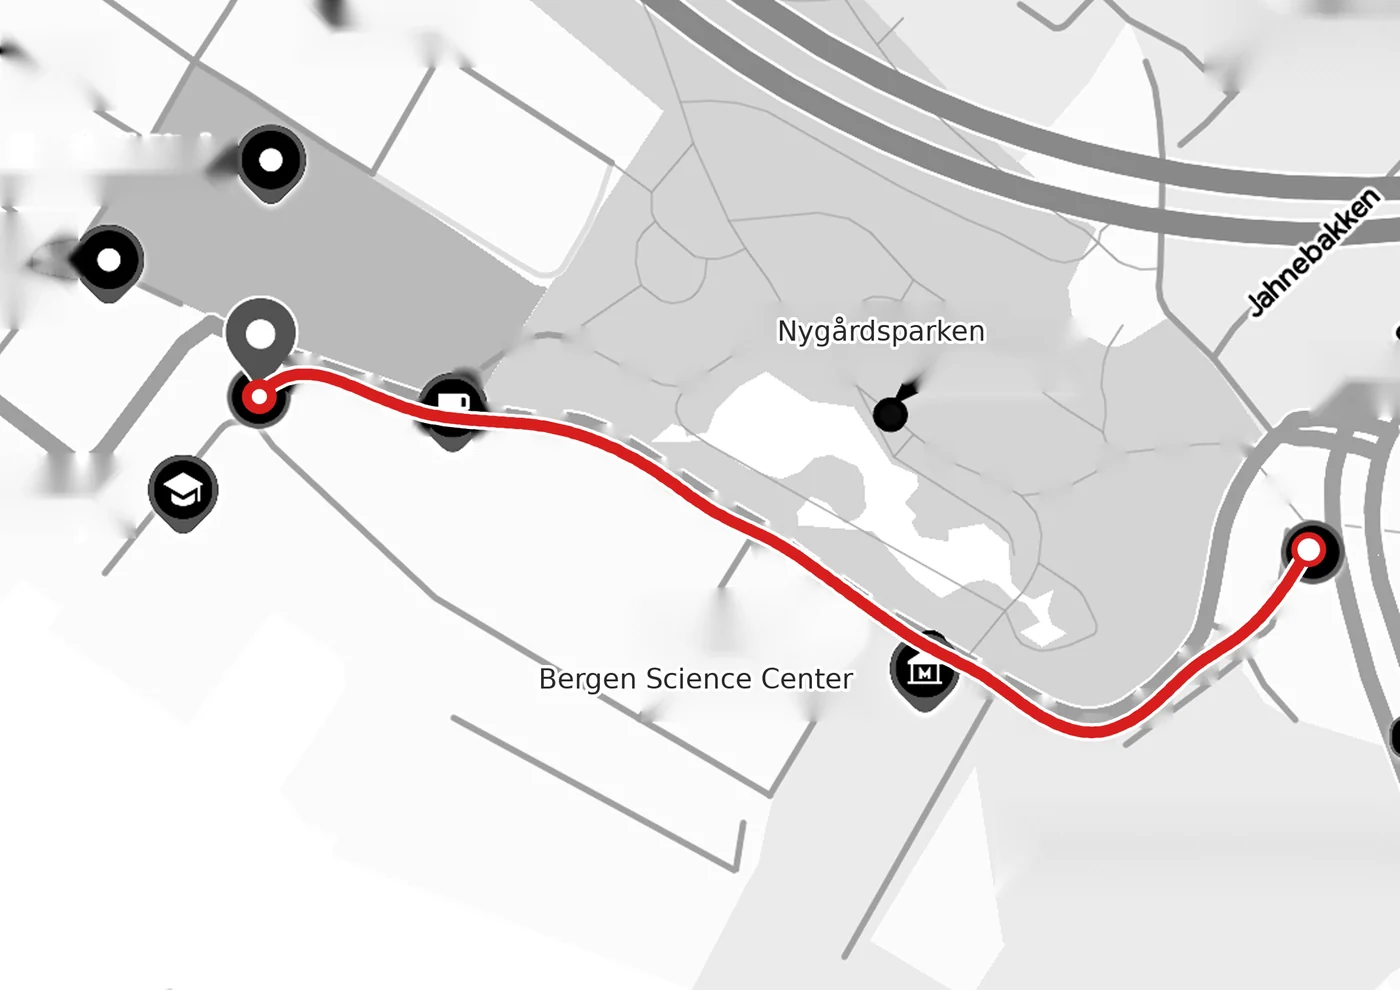
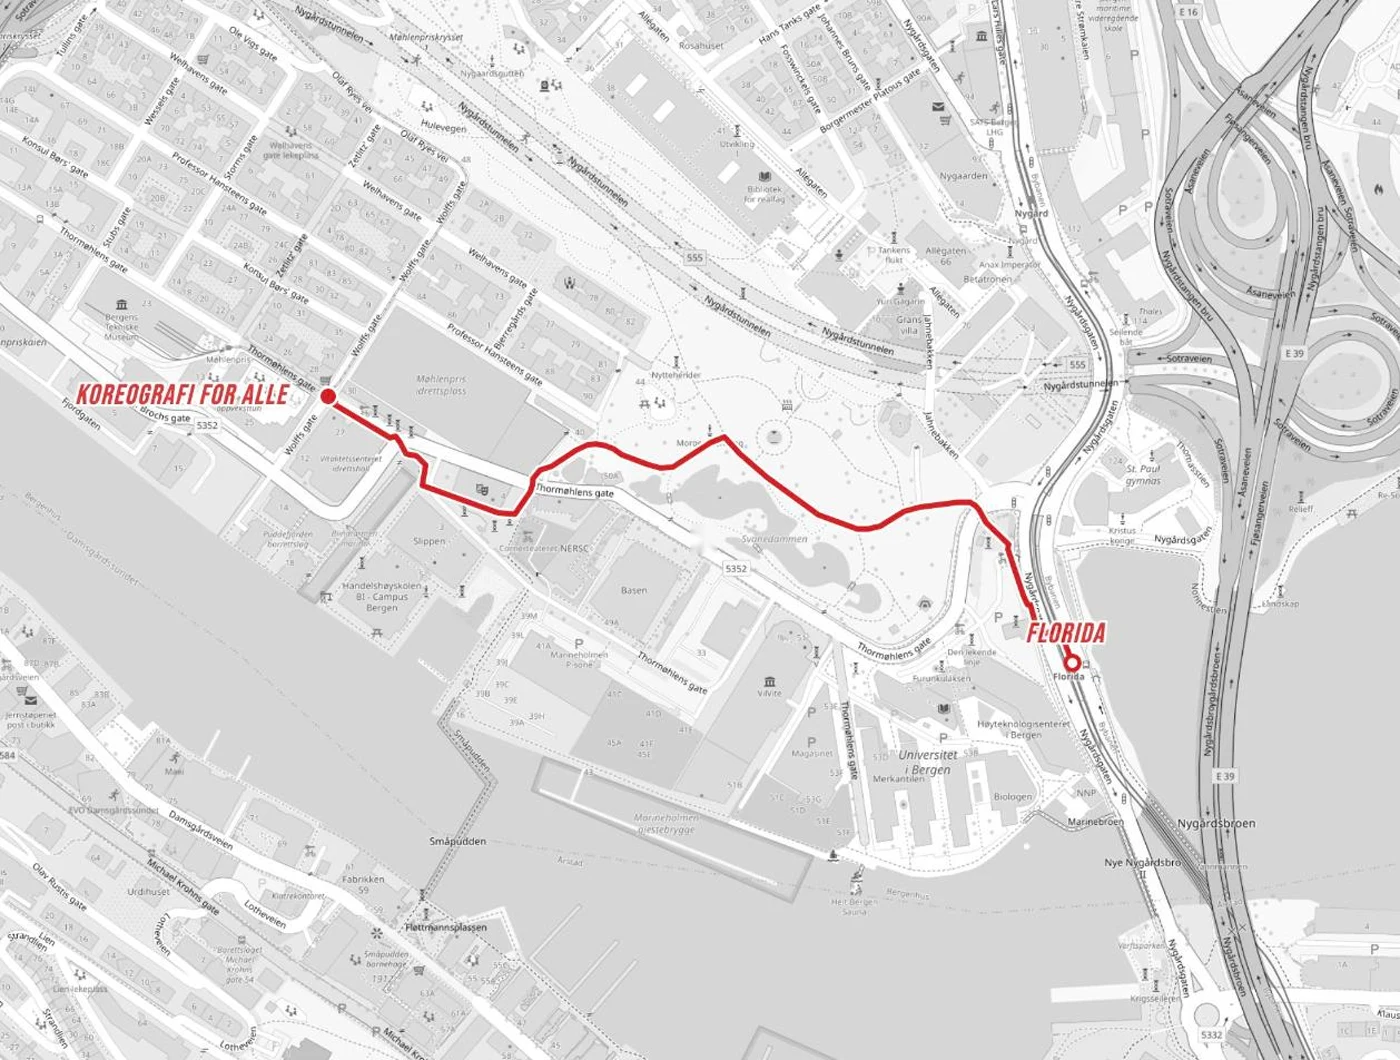
New route maps, fixed address

diff --git a/index.html b/index.html
@@ -37,7 +37,7 @@
     <link rel="preload" as="image" href="/KFA-poster.jpg" />
 
     <script type="application/ld+json" id="ld-json">
-{"@context":"https://schema.org","@graph":[{"@type":"WebSite","@id":"https://www.koreografiforalle.no/#website","url":"https://www.koreografiforalle.no","name":"Koreografi for alle","inLanguage":"nb-NO"},{"@type":["SportsActivityLocation","LocalBusiness"],"@id":"https://www.koreografiforalle.no/#studio","name":"Koreografi for alle","description":"Koreografitimer i Bergen med Galyna Gerasymenko: teknikk ved barren, adagio og gulvarbeid for nybegynnere og viderekomne. Book gratis prøvetime.","url":"https://www.koreografiforalle.no","image":"https://www.koreografiforalle.no/og.jpg","logo":"https://cdn.jsdelivr.net/gh/synectica/assets/kfaforkfa.png","address":{"@type":"PostalAddress","streetAddress":"Thormøhlens gate 39","postalCode":"5006","addressLocality":"Bergen","addressCountry":"NO"},"geo":{"@type":"GeoCoordinates","latitude":60.3830593,"longitude":5.3239127},"hasMap":"https://www.google.no/maps/place/M%C3%B8llaren+Frivilligsentral/@60.3830593,5.3239127,17z/","areaServed":"Bergen","priceRange":"kr 150–200","openingHoursSpecification":[{"@type":"OpeningHoursSpecification","dayOfWeek":"Tuesday","opens":"15:00","closes":"16:00"},{"@type":"OpeningHoursSpecification","dayOfWeek":"Friday","opens":"15:30","closes":"17:00"}],"employee":{"@id":"https://www.koreografiforalle.no/#galyna"},"makesOffer":[{"@type":"Offer","name":"Gratis prøvetime","price":"0","priceCurrency":"NOK","itemOffered":{"@type":"Service","name":"Gratis prøvetime i koreografi"}},{"@type":"Offer","name":"Koreografitime 60 minutter (tirsdager)","price":"150","priceCurrency":"NOK","itemOffered":{"@type":"Service","name":"Koreografitime 60 minutter"}},{"@type":"Offer","name":"Koreografitime 90 minutter (fredager)","price":"200","priceCurrency":"NOK","itemOffered":{"@type":"Service","name":"Koreografitime 90 minutter"}}]},{"@type":"Person","@id":"https://www.koreografiforalle.no/#galyna","name":"Galyna Gerasymenko","jobTitle":"Koreograf og instruktør","worksFor":{"@id":"https://www.koreografiforalle.no/#studio"}}]}
+{"@context":"https://schema.org","@graph":[{"@type":"WebSite","@id":"https://www.koreografiforalle.no/#website","url":"https://www.koreografiforalle.no","name":"Koreografi for alle","inLanguage":"nb-NO"},{"@type":["SportsActivityLocation","LocalBusiness"],"@id":"https://www.koreografiforalle.no/#studio","name":"Koreografi for alle","description":"Koreografitimer i Bergen med Galyna Gerasymenko: teknikk ved barren, adagio og gulvarbeid for nybegynnere og viderekomne. Book gratis prøvetime.","url":"https://www.koreografiforalle.no","image":"https://www.koreografiforalle.no/og.jpg","logo":"https://cdn.jsdelivr.net/gh/synectica/assets/kfaforkfa.png","address":{"@type":"PostalAddress","streetAddress":"Wolffs gate 12","postalCode":"5006","addressLocality":"Bergen","addressCountry":"NO"},"geo":{"@type":"GeoCoordinates","latitude":60.3830593,"longitude":5.3239127},"hasMap":"https://www.google.no/maps/place/M%C3%B8llaren+Frivilligsentral/@60.3830593,5.3239127,17z/","areaServed":"Bergen","priceRange":"kr 150–200","openingHoursSpecification":[{"@type":"OpeningHoursSpecification","dayOfWeek":"Tuesday","opens":"15:00","closes":"16:00"},{"@type":"OpeningHoursSpecification","dayOfWeek":"Friday","opens":"15:30","closes":"17:00"}],"employee":{"@id":"https://www.koreografiforalle.no/#galyna"},"makesOffer":[{"@type":"Offer","name":"Gratis prøvetime","price":"0","priceCurrency":"NOK","itemOffered":{"@type":"Service","name":"Gratis prøvetime i koreografi"}},{"@type":"Offer","name":"Koreografitime 60 minutter (tirsdager)","price":"150","priceCurrency":"NOK","itemOffered":{"@type":"Service","name":"Koreografitime 60 minutter"}},{"@type":"Offer","name":"Koreografitime 90 minutter (fredager)","price":"200","priceCurrency":"NOK","itemOffered":{"@type":"Service","name":"Koreografitime 90 minutter"}}]},{"@type":"Person","@id":"https://www.koreografiforalle.no/#galyna","name":"Galyna Gerasymenko","jobTitle":"Koreograf og instruktør","worksFor":{"@id":"https://www.koreografiforalle.no/#studio"}}]}
     </script>
 
     <style>html, body { height: 100%; margin: 0; background: #0a0a0a; } #root { height: 100%; }</style>
@@ -47,7 +47,7 @@
     <div id="root"></div>
     <noscript>
       <h1>Koreografi for alle – dansetimer i Bergen</h1>
-      <p>Koreografitimer med Galyna Gerasymenko på Møllaren Frivilligsentral, Thormøhlens gate 39, 5006 Bergen. Gratis prøvetime. Aktivér JavaScript for å booke time.</p>
+      <p>Koreografitimer med Galyna Gerasymenko på Møllaren Frivilligsentral, Wolffs gate 12, 5006 Bergen. Gratis prøvetime. Aktivér JavaScript for å booke time.</p>
     </noscript>
     <script type="module" src="/src/main.tsx"></script>
   </body>

diff --git a/src/app/components/StudioInfo.tsx b/src/app/components/StudioInfo.tsx
@@ -21,9 +21,9 @@ const T = {
     towelT: "Håndkle",
     towelD: "Ett til dusjen og ett til matten.",
     findTitle: "Slik finner du oss",
-    findSub: "Møllaren Frivilligsentral, Thormøhlens gate 39, Bergen",
+    findSub: "Møllaren Frivilligsentral, Wolffs gate 12, Bergen",
     routeTitle: "Velg hvor du kommer fra",
-    mapCaps: { florida: "Kart: gangvei fra Florida (ca. 7 min)", moehlenpris: "Kart: gangvei fra Møhlenpris (ca. 7 min)" },
+    mapCaps: { florida: "Kart: gangvei fra Florida (ca. 9 min)", moehlenpris: "Kart: gangvei fra Møhlenpris (ca. 6 min)" },
     tabs: ["Fra Florida", "Fra Møhlenpris"],
     routeCaps: {
       florida: ["Gangveien opp mot Vitalitetsenteret", "Krysset og gangveien opp til inngangen"],
@@ -48,9 +48,9 @@ const T = {
     towelT: "Towels",
     towelD: "One for the shower and one for your mat.",
     findTitle: "How to find us",
-    findSub: "Møllaren Frivilligsentral, Thormøhlens gate 39, Bergen",
+    findSub: "Møllaren Frivilligsentral, Wolffs gate 12, Bergen",
     routeTitle: "Choose where you are coming from",
-    mapCaps: { florida: "Map: walking route from Florida (approx. 7 min)", moehlenpris: "Map: walking route from Møhlenpris (approx. 7 min)" },
+    mapCaps: { florida: "Map: walking route from Florida (approx. 9 min)", moehlenpris: "Map: walking route from Møhlenpris (approx. 6 min)" },
     tabs: ["From Florida", "From Møhlenpris"],
     routeCaps: {
       florida: ["The footpath up towards Vitalitetsenteret", "The crossing and the footpath up to the entrance"],
@@ -75,9 +75,9 @@ const T = {
     towelT: "Рушники",
     towelD: "Один для душу та один для килимка.",
     findTitle: "Як нас знайти",
-    findSub: "Møllaren Frivilligsentral, Thormøhlens gate 39, Берген",
+    findSub: "Møllaren Frivilligsentral, Wolffs gate 12, Берген",
     routeTitle: "Оберіть, звідки ви йдете",
-    mapCaps: { florida: "Мапа: пішки від Florida (близько 7 хв)", moehlenpris: "Мапа: пішки від Møhlenpris (близько 7 хв)" },
+    mapCaps: { florida: "Мапа: пішки від Florida (близько 9 хв)", moehlenpris: "Мапа: пішки від Møhlenpris (близько 6 хв)" },
     tabs: ["Від Florida", "Від Møhlenpris"],
     routeCaps: {
       florida: ["Пішохідна доріжка вгору до Vitalitetsenteret", "Перехрестя та доріжка вгору до входу"],

diff --git a/src/app/components/Hero.tsx b/src/app/components/Hero.tsx
@@ -308,7 +308,7 @@ export function Hero({ lang = "no" }: { lang?: string }) {
               <svg viewBox="0 0 24 24" width="16" height="16" aria-hidden="true" className="inline-block align-[-3px] mr-2" fill="#fff">
                 <path fillRule="evenodd" d="M12 2C8.1 2 5 5.1 5 9c0 5.2 7 13 7 13s7-7.8 7-13c0-3.9-3.1-7-7-7zm0 9.5A2.5 2.5 0 1 1 12 6.5a2.5 2.5 0 0 1 0 5z" />
               </svg>
-              Thormøhlens gate 39, Møllaren Frivilligsentral, Bergen
+              Wolffs gate 12, Møllaren Frivilligsentral, Bergen
             </button>
       </div>
 

diff --git a/src/app/components/SeoHead.tsx b/src/app/components/SeoHead.tsx
@@ -145,7 +145,7 @@ export function SeoHead() {
           logo: "https://cdn.jsdelivr.net/gh/synectica/assets/kfaforkfa.png",
           address: {
             "@type": "PostalAddress",
-            streetAddress: "Thormøhlens gate 39",
+            streetAddress: "Wolffs gate 12",
             postalCode: "5006",
             addressLocality: "Bergen",
             addressCountry: "NO",
